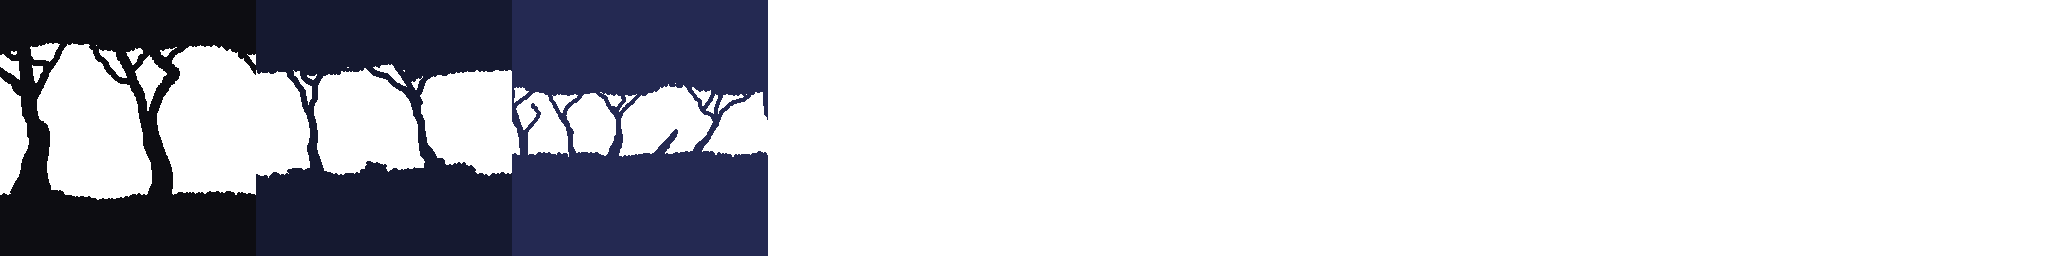
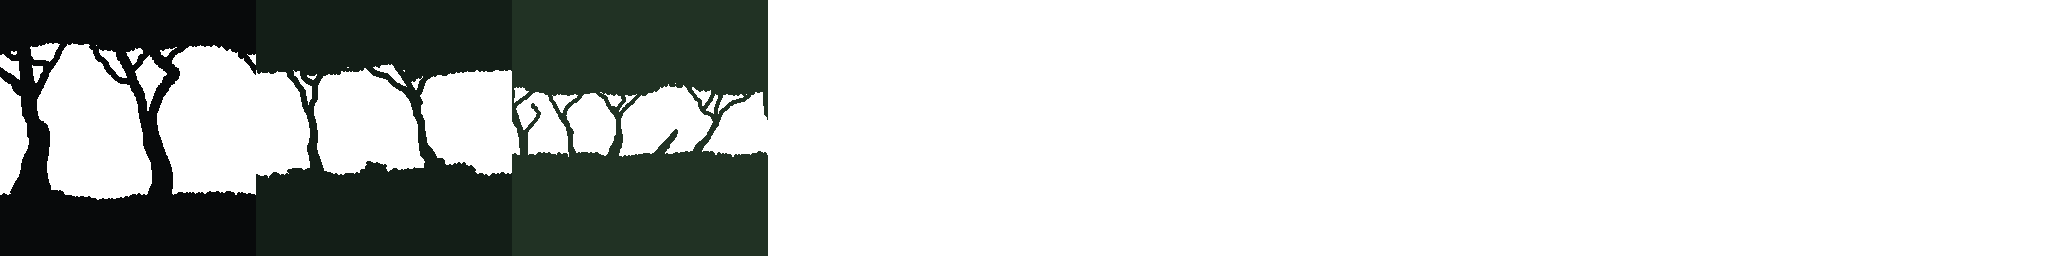
Ajust background color

Changed region(s): [[0.125, 0.0, 0.375, 1.0]]

diff --git a/js/scenes/l1w1.js b/js/scenes/l1w1.js
@@ -219,14 +219,14 @@ class l1w1 extends Phaser.Scene { // eslint-disable-line no-unused-vars
     this.physics.add.overlap(this.player, this.monsters, this.killPlayer, null, this);
 
     // Shoot monster
-    this.physics.add.collider(this.bullets, this.monsters, this.killMonster, null, this);
+    this.physics.add.overlap(this.bullets, this.monsters, this.killMonster, null, this);
 
 
     /**
      * Parallax Background
      */
     // set background color, so the sky is not black
-    this.cameras.main.setBackgroundColor('#373f7b');
+    this.cameras.main.setBackgroundColor('#364c3a');
     this.parallax1 = this.add.tileSprite(0, 128, map.widthInPixels * 1.8, map.heightInPixels, 'parallax', 0);
     this.parallax1.setScrollFactor(0.8, 0.8);
     this.parallax1.setDepth(-1);

diff --git a/js/scenes/mainMenu.js b/js/scenes/mainMenu.js
@@ -37,7 +37,7 @@ class MainMenu extends Phaser.Scene { // eslint-disable-line no-unused-vars
       this,
     );
 
-    this.cameras.main.setBackgroundColor('#373f7b');
+    this.cameras.main.setBackgroundColor('#364c3a');
     this.parallax1 = this.add.tileSprite(128, 96, 256, 256, 'parallax', 0);
     this.parallax1.setScrollFactor(0.8, 0.8);
     this.parallax1.setDepth(-1);
